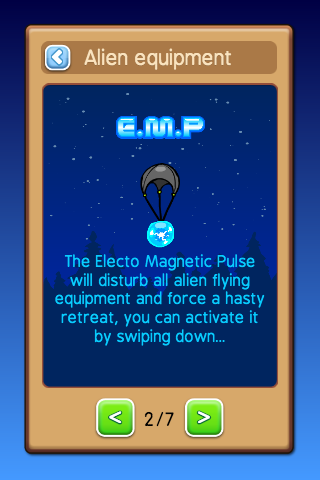
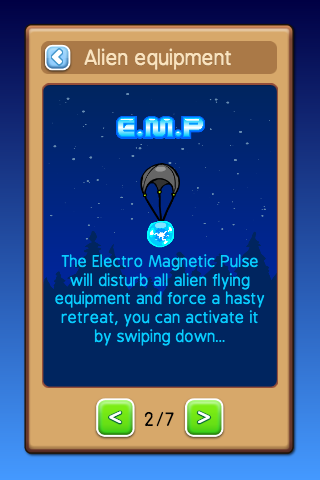
moved 9-slice to constants

Changed region(s): [[0.1875, 0.5312, 0.8125, 0.5625]]

diff --git a/src/constants/menuConstants.js b/src/constants/menuConstants.js
@@ -1,6 +1,8 @@
 import lib.Enum as Enum;
 
-exports.transitionMethod = Enum(
+var constants = {};
+
+constants.transitionMethod = Enum(
 	'NONE',
 	'SLIDE',
 	'SCALE',
@@ -8,12 +10,28 @@ exports.transitionMethod = Enum(
 	'ROTATE'
 );
 
-exports.DIALOG = {
+constants.BOX_SLICES = {
+	SOURCE_SLICES: {
+		horizontal: {left: 30, center: 10, right: 30},
+		vertical: {top: 30, middle: 10, bottom: 30}
+	},
+	DEST_SLICES: undefined
+};
+
+constants.BUTTON_SLICES = {
+	SOURCE_SLICES: {
+		horizontal: {left: 30, center: 10, right: 30},
+		vertical: {top: 30, middle: 10, bottom: 30}
+	},
+	DEST_SLICES: undefined
+};
+
+constants.DIALOG = {
 	BACKGROUND: 'resources/images/ui/background.png',
 	CONTENT_BORDER: 'resources/images/ui/contentBorder.png',
-	SHOW_TRANSITION_METHOD: exports.transitionMethod.SLIDE,
+	SHOW_TRANSITION_METHOD: constants.transitionMethod.SLIDE,
 	SHOW_TRANSITION_TIME: 300,
-	HIDE_TRANSITION_METHOD: exports.transitionMethod.SLIDE,
+	HIDE_TRANSITION_METHOD: constants.transitionMethod.SLIDE,
 	HIDE_TRANSITION_TIME: 300,
 	BACK: {
 		MARGIN_LEFT: 2,
@@ -69,11 +87,11 @@ exports.DIALOG = {
 	}
 };
 
-exports.TUTORIAL = {
+constants.TUTORIAL = {
 	BACKGROUND_COLOR: 'rgb(255, 255, 255)'
 };
 
-exports.MENU_TEXT = {
+constants.MENU_TEXT = {
 	FONT_FAMILY: 'BPReplay',
 	FONT_SIZE: 36,
 	PADDING: [0, 0, 0, 0],
@@ -83,7 +101,7 @@ exports.MENU_TEXT = {
 	ALIGN: 'center'
 };
 
-exports.MENU_ITEM = {
+constants.MENU_ITEM = {
 	BACKGROUND: 'resources/images/ui/buttonItem.png',
 	FONT_FAMILY: 'BPReplay',
 	FONT_SIZE: 36,
@@ -97,7 +115,7 @@ exports.MENU_ITEM = {
 	STROKE_WIDTH: 3
 };
 
-exports.TITLE = {
+constants.TITLE = {
 	BACKGROUND: 'resources/images/ui/title.png',
 	FONT_FAMILY: 'BPReplay',
 	FONT_SIZE: 36,
@@ -106,7 +124,7 @@ exports.TITLE = {
 	STROKE_WIDTH: 1
 };
 
-exports.BUTTONS = {
+constants.BUTTONS = {
 	BLUE: {
 		UP: 'resources/images/ui/button1Up.png',
 		DOWN: 'resources/images/ui/button1Down.png',
@@ -135,3 +153,10 @@ exports.BUTTONS = {
 		STROKE_WIDTH: 6
 	}
 };
+
+function setConstants (c) {
+	exports = merge(c, exports);
+	exports.set = setConstants;
+}
+
+setConstants(constants);

diff --git a/src/views/ui/components/ButtonView.js b/src/views/ui/components/ButtonView.js
@@ -15,10 +15,8 @@ exports = Class(ButtonView, function (supr) {
 					up: buttonStyle.UP
 				},
 				scaleMethod: '9slice',
-				sourceSlices: {
-					horizontal: {left: 30, center: 10, right: 30},
-					vertical: {top: 30, middle: 10, bottom: 30}
-				},
+				sourceSlices: menuConstants.BUTTON_SLICES.SOURCE_SLICES,
+				destSlices: menuConstants.BUTTON_SLICES.DEST_SLICES,
 				text: {
 					fontFamily: buttonStyle.FONT_FAMILY,
 					size: buttonStyle.FONT_SIZE,

diff --git a/src/views/ui/components/BoxBorderView.js b/src/views/ui/components/BoxBorderView.js
@@ -10,10 +10,8 @@ exports = Class(ImageScaleView, function (supr) {
 			{
  				image: menuConstants.DIALOG.BACKGROUND,
 				scaleMethod: '9slice',
-				sourceSlices: {
-					horizontal: {left: 30, center: 10, right: 30},
-					vertical: {top: 30, middle: 10, bottom: 30}
-				}
+				sourceSlices: menuConstants.BOX_SLICES.SOURCE_SLICES,
+				destSlices: menuConstants.BOX_SLICES.DEST_SLICES
 			}
 		);
 

diff --git a/src/doc/docPickups.js b/src/doc/docPickups.js
@@ -70,7 +70,7 @@ exports = [
 				]
 			},
 			{
-				text: 'The Electo Magnetic Pulse will disturb all alien flying equipment and force a hasty retreat, you can activate it by swiping down...',
+				text: 'The Electro Magnetic Pulse will disturb all alien flying equipment and force a hasty retreat, you can activate it by swiping down...',
 				color: 'rgb(8, 205, 255)'
 			}
 		]
